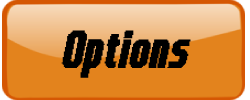
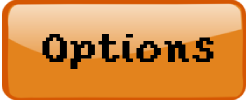
Changed fonts and added nice shot/good try

diff --git a/TennisClash.cpp b/TennisClash.cpp
@@ -283,6 +283,27 @@ void MoveRandomCPU(string& randomCPUName, unordered_map<string, sf::Sprite>& spr
     }
 }
 
+void StartNextPoint(int& pointNumber, float& tennisBallSpeed, float& tennisBallY, string& characterName, string& randomCPUName, bool& isServe, unordered_map<string, sf::Sprite>& sprites) {
+    this_thread::sleep_for(chrono::milliseconds(1000));
+    isServe = true;
+    if (pointNumber % 2 == 0) {
+
+    }
+    else {
+        sprites[characterName + "Player"].setPosition(750.f, 235.f);
+        sprites[characterName + "Racket"].setPosition(785.f, 240.f);
+        sprites[characterName + "Racket"].setRotation(60.f);
+        sprites["characterRacketHitZone"].setPosition(720.f, 175.f);
+        sprites[randomCPUName + "Player"].setPosition(150.f, 435.f);
+        sprites[randomCPUName + "Racket"].setPosition(116.f, 430.f);
+        sprites[randomCPUName + "Racket"].setRotation(240.f);
+        sprites["randomCPURacketHitZone"].setPosition(118.f, 433.f);
+        sprites["tennisBall"].setPosition(150.f, 450.f);
+        tennisBallSpeed = 0.2f;
+        tennisBallY = Random::Float(-0.13f, -0.05f);
+    }
+}
+
 int main()
 {
     // window + sprite + sound/music + text initializations
@@ -437,6 +458,10 @@ int main()
     randomCPURacketHitZone.setPosition(118.f, 433.f);
     sf::Sprite tennisBall(TextureManager::GetTexture("tennisBall"));
     tennisBall.setPosition(150.f, 450.f);
+    sf::Sprite niceShotText(TextureManager::GetTexture("niceShotText"));
+    niceShotText.setPosition(300.f, 250.f);
+    sf::Sprite goodTryText(TextureManager::GetTexture("goodTryText"));
+    goodTryText.setPosition(300.f, 250.f);
 
     sf::RectangleShape tempBackground(sf::Vector2f(900.f, 600.f));
     tempBackground.setFillColor(sf::Color::White);
@@ -446,6 +471,8 @@ int main()
     sf::Sound arcadeCountdown(SoundBufferManager::GetSoundBuffer("arcadeCountdown"));
     sf::Sound racketSwing(SoundBufferManager::GetSoundBuffer("racketSwing"));
     sf::Sound tennisBallHit(SoundBufferManager::GetSoundBuffer("tennisBallHit"));
+    sf::Sound niceShot(SoundBufferManager::GetSoundBuffer("niceShot"));
+    sf::Sound goodTry(SoundBufferManager::GetSoundBuffer("goodTry"));
 
     sf::Music backgroundMusic;
     backgroundMusic.openFromFile("audio/backgroundMusic.wav");
@@ -453,21 +480,21 @@ int main()
     backgroundMusic.play();
 
     sf::Text rulesTitle;
-    rulesTitle.setFont(FontManager::GetFont("lochleyPixel"));
+    rulesTitle.setFont(FontManager::GetFont("yosterIsland"));
     rulesTitle.setString("Rules");
     rulesTitle.setCharacterSize(50);
     rulesTitle.setFillColor(sf::Color::Black);
     rulesTitle.setPosition(165.f, 100.f);
 
     sf::Text optionsTitle;
-    optionsTitle.setFont(FontManager::GetFont("lochleyPixel"));
+    optionsTitle.setFont(FontManager::GetFont("yosterIsland"));
     optionsTitle.setString("Options");
     optionsTitle.setCharacterSize(50);
     optionsTitle.setFillColor(sf::Color::Black);
     optionsTitle.setPosition(165.f, 100.f);
 
     sf::Text creditsTitle;
-    creditsTitle.setFont(FontManager::GetFont("lochleyPixel"));
+    creditsTitle.setFont(FontManager::GetFont("yosterIsland"));
     creditsTitle.setString("Credits");
     creditsTitle.setCharacterSize(50);
     creditsTitle.setFillColor(sf::Color::Black);
@@ -564,6 +591,8 @@ int main()
     sprites.emplace("characterRacketHitZone", characterRacketHitZone);
     sprites.emplace("randomCPURacketHitZone", randomCPURacketHitZone);
     sprites.emplace("tennisBall", tennisBall);
+    sprites.emplace("niceShotText", niceShotText);
+    sprites.emplace("goodTryText", goodTryText);
 
     unordered_map<string, sf::Sound> sounds;
     sounds.emplace("magicButtonClick", magicButtonClick);
@@ -571,6 +600,8 @@ int main()
     sounds.emplace("arcadeCountdown", arcadeCountdown);
     sounds.emplace("racketSwing", racketSwing);
     sounds.emplace("tennisBallHit", tennisBallHit);
+    sounds.emplace("niceShot", niceShot);
+    sounds.emplace("goodTry", goodTry);
 
     unordered_map<string, sf::Text> texts;
     texts.emplace("rulesTitle", rulesTitle);
@@ -600,6 +631,7 @@ int main()
     bool isSwung = false;
     bool isSwingingCPU = false;
     bool isServe = true;
+    bool isNextPoint = false;
     bool isTitleScreen = true;
     bool isRulesPage = false;
     bool isOptionsPage = false;
@@ -809,6 +841,10 @@ int main()
                         texts["randomCPUScore"].setString("0" + to_string(randomCPUScoreNum));
                     else
                         texts["randomCPUScore"].setString(to_string(randomCPUScoreNum));
+                    pointNumber++;
+                    window.draw(goodTryText);
+                    goodTry.play();
+                    isNextPoint = true;
                 }
                 if (sprites["tennisBall"].getPosition().x <= 130.f) {
                     sprites["tennisBall"].setPosition(450.f, 700.f);
@@ -819,6 +855,10 @@ int main()
                         texts["playerScore"].setString("0" + to_string(playerScoreNum));
                     else
                         texts["playerScore"].setString(to_string(playerScoreNum));
+                    pointNumber++;
+                    window.draw(niceShotText);
+                    niceShot.play();
+                    isNextPoint = true;
                 }
             }
         }    
@@ -826,6 +866,10 @@ int main()
         if (isSwung) {
             thread characterSwingT(CharacterSwing, ref(characterName), ref(isSwung), ref(sprites));
             characterSwingT.detach();
+        }
+        if (isNextPoint) {
+            isNextPoint = false; 
+            StartNextPoint(pointNumber, tennisBallSpeed, tennisBallY, characterName, randomCPUName, isServe, sprites);
         }
     }
 